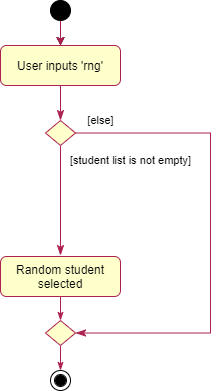
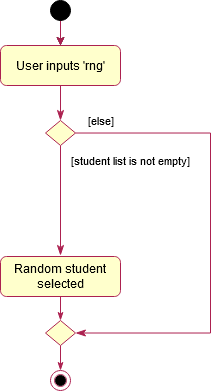
DeveloperGuide.md: update text
- Also move RNG diagrams to images/developer-guide

diff --git a/docs/DeveloperGuide.md b/docs/DeveloperGuide.md
@@ -405,40 +405,67 @@ The following activity diagram summarizes what happens when a user executes an R
 
 ### 4.7. Undo/redo feature
 
-todo below
+The undo/redo mechanism is facilitated by `ModelManager`. 
+It contains the following entities:
+* `VersionedStudentList`
+* `VersionedSessionList`
+* `VersionedAttributesList` 
 
-The proposed undo/redo mechanism is facilitated by `VersionedAddressBook`. It extends `AddressBook` with an undo/redo history, stored internally as an `addressBookStateList` and `currentStatePointer`. Additionally, it implements the following operations:
+Each versioned entity extends its corresponding non-versioned class (e.g. `VersionedStudentList` extends from `StudentList`)
+with an undo/redo history, stored internally as an `<<entity>>StateList` and `currentStatePointer`.
+Additionally, each entity implements the following operations:
 
-* `VersionedAddressBook#commit()` — Saves the current address book state in its history.
-* `VersionedAddressBook#undo()` — Restores the previous address book state from its history.
-* `VersionedAddressBook#redo()` — Restores a previously undone address book state from its history.
+* `Versioned<<Entity>>List#commit()` — Saves the current entity state in its history.
+* `Versioned<<Entity>>List#undo()` — Restores the previous entity state from its history.
+* `Versioned<<Entity>>List#redo()` — Restores a previously undone entity state from its history.
 
-These operations are exposed in the `Model` interface as `Model#commitAddressBook()`, `Model#undoAddressBook()` and `Model#redoAddressBook()` respectively.
+The operations above are called in `ModelManager` under their respective methods within the class:
+* `ModelManager#commit()`
+* `ModelManager#undo()`
+* `ModelManager#redo()` 
 
-Given below is an example usage scenario and how the undo/redo mechanism behaves at each step.
+These operations are exposed in the `Model` interface as `Model#commit()`, `Model#undo()` and `Model#redo()` respectively.
 
-Step 1. The user launches the application for the first time. The `VersionedAddressBook` will be initialized with the initial address book state, and the `currentStatePointer` pointing to that single address book state.
+<div markdown="block" class="alert alert-info">
 
-![UndoRedoState0](images/UndoRedoState0.png)
-
-Step 2. The user executes `delete 5` command to delete the 5th student in the address book. The `delete` command calls `Model#commitAddressBook()`, causing the modified state of the address book after the `delete 5` command executes to be saved in the `addressBookStateList`, and the `currentStatePointer` is shifted to the newly inserted address book state.
-
-![UndoRedoState1](images/UndoRedoState1.png)
-
-Step 3. The user executes `add n/David …` to add a new student. The `add` command also calls `Model#commitAddressBook()`, causing another modified address book state to be saved into the `addressBookStateList`.
-
-![UndoRedoState2](images/UndoRedoState2.png)
-
-<div markdown="span" class="alert alert-info">:information_source: **Note:** If a command fails its execution, it will not call `Model#commitAddressBook()`, so the address book state will not be saved into the `addressBookStateList`.
+:information_source: **Note:** Whenever a command that commits is made, `Model#commit()` is called, which means that
+ all 3 of `<<Versioned<<Entity>>List>>#commit()` will be called. 
+ A similar mechanism occurs for `Model#undo()` and `Model#redo()`. <br>
 
 </div>
 
-Step 4. The user now decides that adding the student was a mistake, and decides to undo that action by executing the `undo` command. The `undo` command will call `Model#undoAddressBook()`, which will shift the `currentStatePointer` once to the left, pointing it to the previous address book state, and restores the address book to that state.
+Given below is an example usage scenario and how the undo/redo mechanism behaves at each step.
+
+Step 1. The user launches the application for the first time. Each `Versioned<<Entity>>` will be initialized with the initial entity state, and the `currentStatePointer` pointing to that single entity state.
+
+![UndoRedoState0](images/UndoRedoState0.png)
+
+Step 2. The user executes `deletestu 5` command to delete the 5th student in the student list. 
+The `deletestu` command calls `Model#commit()`, causing the modified state of all versioned entities after the `deletestu 5` command executes to be saved in the `<<entity>>StateList`,
+ and the `currentStatePointer` for each `Versioned<<Entity>>List>>` is shifted to the newly inserted entity state.
+
+![UndoRedoState1](images/UndoRedoState1.png)
+
+Step 3. The user executes `addstu n/David …` to add a new student. The `addstu` command also calls `Model#commit()`, causing another modified address entity state (for each state) to be saved into the `<<entity>>StateList`.
+
+![UndoRedoState2](images/UndoRedoState2.png)
+
+<div markdown="span" class="alert alert-info">
+
+:information_source: **Note:** If a command fails its execution, it will not call `Model#commit()`, so any entity state will not be saved into the `<<entity>>StateList`.
+
+</div>
+
+Step 4. The user now decides that adding the student was a mistake, and decides to undo that action by executing the `undo` command.
+The `undo` command will call `Model#undo()`, which will shift the `currentStatePointer` for *all* versioned entities once to the left, pointing it to the previous entity state, and restores each entity to that state.
 
 ![UndoRedoState3](images/UndoRedoState3.png)
 
-<div markdown="span" class="alert alert-info">:information_source: **Note:** If the `currentStatePointer` is at index 0, pointing to the initial AddressBook state, then there are no previous AddressBook states to restore. The `undo` command uses `Model#canUndoAddressBook()` to check if this is the case. If so, it will return an error to the user rather
-than attempting to perform the undo.
+<div markdown="span" class="alert alert-info">
+
+:information_source: **Note:** If the `currentStatePointer` is at index 0, pointing to the initial entity state, then there are no previous entity states to restore. 
+The `undo` command uses `Model#canUndo()` to check if this is the case. 
+If so, it will return an error to the user rather than attempting to perform the undo.
 
 </div>
 
@@ -446,21 +473,29 @@ The following sequence diagram shows how the undo operation works:
 
 ![UndoSequenceDiagram](images/UndoSequenceDiagram.png)
 
-<div markdown="span" class="alert alert-info">:information_source: **Note:** The lifeline for `UndoCommand` should end at the destroy marker (X) but due to a limitation of PlantUML, the lifeline reaches the end of diagram.
+<div markdown="span" class="alert alert-info">
+
+:information_source: **Note:** The lifeline for `UndoCommand` should end at the destroy marker (X) but due to a limitation of PlantUML, the lifeline reaches the end of diagram.
 
 </div>
 
-The `redo` command does the opposite — it calls `Model#redoAddressBook()`, which shifts the `currentStatePointer` once to the right, pointing to the previously undone state, and restores the address book to that state.
+The `redo` command does the opposite — it calls `Model#redo()`, which shifts the `currentStatePointer` for each versioned entity once to the right, pointing to the previously undone state, and restores each entity to that state.
 
-<div markdown="span" class="alert alert-info">:information_source: **Note:** If the `currentStatePointer` is at index `addressBookStateList.size() - 1`, pointing to the latest address book state, then there are no undone AddressBook states to restore. The `redo` command uses `Model#canRedoAddressBook()` to check if this is the case. If so, it will return an error to the user rather than attempting to perform the redo.
+<div markdown="span" class="alert alert-info">
+
+:information_source: **Note:** If the `currentStatePointer` is at index `<<entity>>StateList.size() - 1`, pointing to the latest entity state, then there are no undone entity states to restore. 
+The `redo` command uses `Model#canRedo()` to check if this is the case. If so, it will return an error to the user rather than attempting to perform the redo.
 
 </div>
 
-Step 5. The user then decides to execute the command `list`. Commands that do not modify the address book, such as `list`, will usually not call `Model#commitAddressBook()`, `Model#undoAddressBook()` or `Model#redoAddressBook()`. Thus, the `addressBookStateList` remains unchanged.
+Step 5. The user then decides to execute the command `liststu`. Commands that do not modify any entity, such as `liststu`, will usually not call `Model#commit()`, `Model#undo()` or `Model#redo()`. 
+Thus, the `<<entity>>StateList` for each versioned entity remains unchanged.
 
 ![UndoRedoState4](images/UndoRedoState4.png)
 
-Step 6. The user executes `clear`, which calls `Model#commitAddressBook()`. Since the `currentStatePointer` is not pointing at the end of the `addressBookStateList`, all address book states after the `currentStatePointer` will be purged. Reason: It no longer makes sense to redo the `add n/David …` command. This is the behavior that most modern desktop applications follow.
+Step 6. The user executes `clearstu`, which calls `Model#commit()`. 
+Since the `currentStatePointer` for each versioned entity is not pointing at the end of the `<<entity>>StateList`, all entity states after the `currentStatePointer` will be purged. 
+Reason: It no longer makes sense to redo the `addstu n/David …` command. This is the behavior that most modern desktop applications follow.
 
 ![UndoRedoState5](images/UndoRedoState5.png)
 
@@ -472,14 +507,23 @@ The following activity diagram summarizes what happens when a user executes a ne
 
 **Aspect: how undo & redo execute**
 
-* **Alternative 1 (current choice):** Saves the entire address book.
- * Pros: Easy to implement.
- * Cons: May have performance issues in terms of memory usage.
+* **Alternative 1 (current choice):** For each versioned entity, saves the entire entity.
+   * Pros: Easy to implement.
+   * Cons: May have performance issues in terms of memory usage.
 
-* **Alternative 2:** Individual command knows how to undo/redo by
- itself.
- * Pros: Will use less memory (e.g. for `delete`, just save the student being deleted).
- * Cons: We must ensure that the implementation of each individual command are correct.
+* **Alternative 2:** Individual command knows how to undo/redo by itself.
+   * Pros: Will use less memory (e.g. for `deletestu`, just save the student being deleted).
+   * Cons: We must ensure that the implementation of each individual command are correct.
+
+**Aspect: data structure to store the different entity states**
+
+* **Alternative 1 (current choice):** List
+   * Pros: Very straightforward.
+   * Cons: May have performance issues in terms of runtime (linear).
+   
+* **Alternative 2:** Search tree
+   * Pros: Much more time-efficient than a list due to logarithmic time complexity for most its functions (search, add, etc.)
+   * Harder to implement.
 
 { end of `implementation#undo_redo` written by: Masagca Eris Jacey }
 
@@ -746,7 +790,7 @@ testers are expected to do more *exploratory* testing.
 
 </div>
 
-{ start of `manual_testing#launch_and_shutdown` written by: __________ }
+{ start of `manual_testing#launch_and_shutdown` written by: Masagca Eris Jacey }
 
 ### 11.1. Launch and shutdown
 
@@ -754,7 +798,8 @@ testers are expected to do more *exploratory* testing.
 
   1. Download the jar file and copy into an empty folder
 
-  1. Double-click the jar file Expected: Shows the GUI with a set of sample contacts. The window size may not be optimum.
+  1. Double-click the jar file Expected: Shows the GUI with a set of sample students and sample sessions. 
+  The window size may not be optimum.
 
 1. Saving window preferences
 
@@ -765,7 +810,7 @@ testers are expected to do more *exploratory* testing.
 
 1. _{ more test cases … }_
 
-{ end of `manual_testing#launch_and_shutdown` written by: __________ }
+{ end of `manual_testing#launch_and_shutdown` written by: Masagca Eris Jacey }
 
 { start of `manual_testing#adding_a_student` written by: __________ }
 
